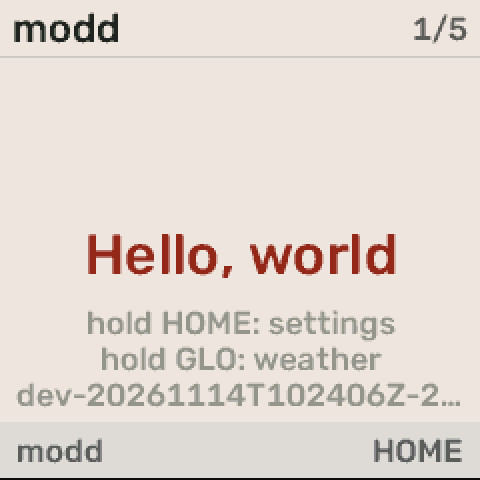
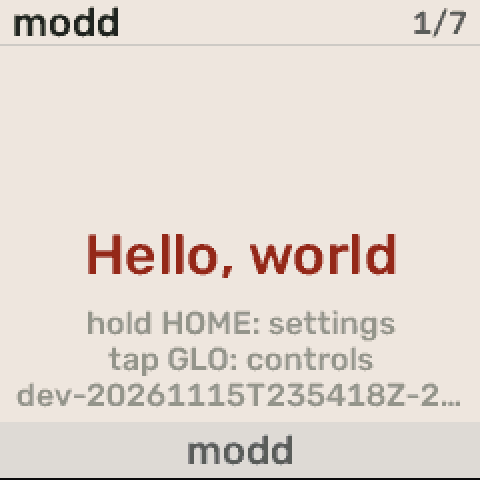
Regenerate modd UI docs and teach the generators the modd theme
- fix(docs): parse #ifndef/#else page guards and skip ENC_COUNT/ENC_NONE, so Home shows modd or Files by HOME_PAGE_FILES and the hardware table lists only real encoders
- fix(docs): build the nav diagram from the theme's own controls.c, so FX hold opens Connectivity, SAVE hold opens Demo and GLO hold opens Log
- fix(docs): read firmware from build/<defconfig>/modd.fwsc in the screenshot tool, which looked for build/modd.fwsc
- docs(ui): refresh the modd navigation diagram and capture 7 page screenshots, adding Files and Disk
- test(docs): add regression tests for guard negation, sentinel defines and the modd diagram

diff --git a/tools/codegen/gen_ui_map.py b/tools/codegen/gen_ui_map.py
@@ -61,11 +61,29 @@ def _guards_met(guards: list[str], config: set[str]) -> bool:
     """Check whether all Kconfig guards are satisfied by the active config."""
     for g in guards:
         g = g.strip()
+        negated = g.startswith('!')
+        if negated:
+            g = g[1:].strip()
         if g.startswith('defined(') and g.endswith(')'):
             g = g[len('defined('):-1]
-        if g not in config:
+        if (g in config) == negated:
             return False
     return True
+
+
+def _negate(guard: str) -> str:
+    """Flip a guard: CONFIG_X <-> !CONFIG_X."""
+    guard = guard.strip()
+    if guard.startswith('!'):
+        return guard[1:].strip()
+    if re.fullmatch(r'\w+|defined\(\w+\)', guard):
+        return '!' + guard
+    return f'!({guard})'
+
+
+def _exclusive(a: list[str], b: list[str]) -> bool:
+    """True when two guard lists can never both hold (one has X, the other !X)."""
+    return any(_negate(g) in b for g in a)
 
 
 MARKER_START = "<!-- ui-nav-diagram:start -->"
@@ -164,11 +182,17 @@ def parse_pages(path: Path) -> list[dict]:
     view_comment = ""
     for line in path.read_text().splitlines():
         stripped = line.strip()
-        # Track #ifdef / #if / #endif
-        if stripped.startswith("#ifdef ") or stripped.startswith("#if "):
-            cond = stripped.split("//")[0].strip()
+        # Track #ifdef / #ifndef / #if / #else / #endif
+        if stripped.startswith("#ifndef "):
+            cond = stripped.split("//")[0].split("/*")[0].strip()
+            guards.append(_negate(cond.removeprefix("#ifndef ")))
+        elif stripped.startswith("#ifdef ") or stripped.startswith("#if "):
+            cond = stripped.split("//")[0].split("/*")[0].strip()
             cond = cond.removeprefix("#ifdef ").removeprefix("#if ")
             guards.append(cond)
+        elif stripped.startswith("#else"):
+            if guards:
+                guards[-1] = _negate(guards[-1])
         elif stripped.startswith("#endif"):
             if guards:
                 guards.pop()
@@ -469,8 +493,8 @@ def parse_hw_controls(path: Path) -> tuple[list[tuple[str, int]], list[tuple[str
     """Return (buttons, encoders): [(name, id)] from BTN_* and ENC_* defines."""
     buttons: list[tuple[str, int]] = []
     encoders: list[tuple[str, int]] = []
-    btn_pat = re.compile(r"#define\s+(BTN_(\w+))\s+(\d+)")
-    enc_pat = re.compile(r"#define\s+(ENC_(\w+))\s+(\d+)")
+    btn_pat = re.compile(r"#define\s+(BTN_(\w+))\s+(\d+)\b")
+    enc_pat = re.compile(r"#define\s+(ENC_(\w+))\s+(\d+)\b")
 
     for line in path.read_text().splitlines():
         m = btn_pat.match(line.strip())
@@ -478,7 +502,7 @@ def parse_hw_controls(path: Path) -> tuple[list[tuple[str, int]], list[tuple[str
             buttons.append((m.group(2), int(m.group(3))))
             continue
         m = enc_pat.match(line.strip())
-        if m:
+        if m and m.group(2) not in ("COUNT", "NONE"):
             encoders.append((m.group(2), int(m.group(3))))
 
     return buttons, encoders
@@ -574,8 +598,12 @@ def generate_controls_table(page_controls: dict, page_details: dict, pages: list
         "| Page | Select | Algo | Knob 1 | Knob 2 | Knob 3 | Knob 4 | Buttons |",
         "|------|--------|------|--------|--------|--------|--------|---------|",
     ]
+    seen: set[str] = set()
     for p in pages:
         sym = p["symbol"]
+        if sym in seen:
+            continue  # registered under two views (alternative configs)
+        seen.add(sym)
         d = page_details.get(sym, {})
         title = d.get("title") or d.get("name") or sym
         c = page_controls.get(sym, {"knobs": {}, "buttons": []})
@@ -641,6 +669,7 @@ def load_nav_map(theme: str, root: Path | None = None) -> dict:
     # shell.c hardcodes GLO hold -> debug log (VIEW_GLO) outside the controls map
     if "VIEW_GLO" in view_groups and "VIEW_GLO" not in btn_for_view:
         btn_for_view["VIEW_GLO"] = "glo_hold"
+        hold_map["BTN_GLO"] = "VIEW_GLO"
 
     return {
         "theme": theme,
@@ -716,24 +745,12 @@ def generate_mermaid(theme: str) -> str:
         # Try the renamed variant (felucca -> reluca in git status, but source is felucca)
         raise SystemExit(f"Theme directory not found: {theme_dir}")
 
-    views = parse_views(ROOT / "firmware" / "src" / "ui" / "ui_view.h")
-    controls_name = theme if theme in ("felucca", "melodee", "sloop") else "felucca"
-    tap_map, hold_map = parse_controls(
-        ROOT / "firmware" / "adapters" / "modd_controls.h", controls_name
-    )
-    pages = parse_pages(theme_dir / "pages.c")
+    # One source for pages, views and button maps (theme controls.c when present)
+    nav = load_nav_map(theme)
+    pages = nav["pages"]
+    view_groups = nav["view_groups"]
+    tap_map, hold_map = nav["tap_map"], nav["hold_map"]
     page_details = parse_page_details(theme_dir)
-
-    # Resolve view: prefer comment from pages.c, fall back to .view in source
-    for p in pages:
-        if not p["view"] and p["symbol"] in page_details:
-            p["view"] = page_details[p["symbol"]].get("view", "")
-
-    # Group pages by view
-    view_groups: dict[str, list[dict]] = {}
-    for p in pages:
-        vw = p["view"] or "VIEW_HOME"
-        view_groups.setdefault(vw, []).append(p)
 
     # Friendly view labels
     view_label = {
@@ -752,8 +769,16 @@ def generate_mermaid(theme: str) -> str:
         "VIEW_DEMO": "Demo",
     }
 
-    def _node_id(sym: str) -> str:
-        return sym.replace("FPAGE_", "F_").replace("PAGE_", "P_")
+    sym_count: dict[str, int] = {}
+    for p in pages:
+        sym_count[p["symbol"]] = sym_count.get(p["symbol"], 0) + 1
+
+    def _node_id(p: dict) -> str:
+        nid = p["symbol"].replace("FPAGE_", "F_").replace("PAGE_", "P_")
+        if sym_count[p["symbol"]] > 1:
+            # same page registered under two views (alternative configs)
+            nid += "_" + (p["view"] or "VIEW_HOME").replace("VIEW_", "")
+        return nid
 
     def _display(sym: str) -> str:
         d = page_details.get(sym, {})
@@ -774,7 +799,7 @@ def generate_mermaid(theme: str) -> str:
     def _view_target(vw: str) -> str:
         group = view_groups.get(vw, [])
         if len(group) == 1:
-            return _node_id(group[0]["symbol"])
+            return _node_id(group[0])
         return vw.replace("VIEW_", "sg_")
 
     # Boot -> HOME target
@@ -795,7 +820,7 @@ def generate_mermaid(theme: str) -> str:
 
         if len(group) == 1:
             p = group[0]
-            nid = _node_id(p["symbol"])
+            nid = _node_id(p)
             label = _display(p["symbol"])
             lines_final.append(f'    {nid}["{label}{_guard_note(p["guards"])}"]')
         else:
@@ -803,7 +828,7 @@ def generate_mermaid(theme: str) -> str:
             sg_id = vw.replace("VIEW_", "sg_")
             lines_final.append(f'    subgraph {sg_id}["{sg_label}"]')
             for p in group:
-                nid = _node_id(p["symbol"])
+                nid = _node_id(p)
                 label = _display(p["symbol"])
                 lines_final.append(f'        {nid}["{label}{_guard_note(p["guards"])}"]')
             lines_final.append("    end")
@@ -814,9 +839,10 @@ def generate_mermaid(theme: str) -> str:
     for vw, group in view_groups.items():
         if len(group) < 2:
             continue
-        ids = [_node_id(p["symbol"]) for p in group]
-        for i in range(len(ids) - 1):
-            lines_final.append(f"    {ids[i]} <-..-> {ids[i+1]}")
+        for a, b in zip(group, group[1:]):
+            if _exclusive(a["guards"], b["guards"]):
+                continue  # alternatives, never built together
+            lines_final.append(f"    {_node_id(a)} <-..-> {_node_id(b)}")
 
     # Button tap navigation
     lines_final.append("")

diff --git a/tests/ui/themes/modd/gen_ui_map_test.py b/tests/ui/themes/modd/gen_ui_map_test.py
@@ -1,0 +1,90 @@
+#!/usr/bin/env python3
+# SPDX-License-Identifier: GPL-3.0-only
+# Copyright (C) 2026 Dmitry Kireev (@DimmKirr)
+"""Unit tests for gen_ui_map.py: preprocessor guards and hardware controls.
+
+The modd theme registers pages under #ifndef / #else branches and a page can
+sit in two views (Files is HOME or DEMO depending on HOME_PAGE_FILES). The
+generator has to carry the negation, or the docs describe a build that
+cannot exist.
+"""
+import sys
+from pathlib import Path
+
+ROOT = Path(__file__).resolve().parents[4]
+sys.path.insert(0, str(ROOT / 'tools' / 'codegen'))
+
+from gen_ui_map import (
+    _guards_met, control_path, generate_mermaid, load_nav_map,
+    parse_hw_controls, parse_pages,
+)
+
+PAGES_C = '''
+static void shell_register_pages(void)
+{
+    /* VIEW_HOME */
+#ifdef CONFIG_HOME_PAGE_FILES
+    nav_register(&PAGE_FILES);
+#else
+    nav_register(&PAGE_HOME);
+#endif
+
+    /* VIEW_DEMO (SAVE hold) */
+#ifdef CONFIG_UDISK
+#ifndef CONFIG_HOME_PAGE_FILES
+    nav_register(&PAGE_FILES);
+#endif
+    nav_register(&PAGE_DISK);
+#endif
+}
+'''
+
+
+def _pages(tmp_path):
+    f = tmp_path / 'pages.c'
+    f.write_text(PAGES_C)
+    return [(p['symbol'], p['view'], p['guards']) for p in parse_pages(f)]
+
+
+def test_else_and_ifndef_negate_the_guard(tmp_path):
+    assert _pages(tmp_path) == [
+        ('PAGE_FILES', 'VIEW_HOME', ['CONFIG_HOME_PAGE_FILES']),
+        ('PAGE_HOME', 'VIEW_HOME', ['!CONFIG_HOME_PAGE_FILES']),
+        ('PAGE_FILES', 'VIEW_DEMO', ['CONFIG_UDISK', '!CONFIG_HOME_PAGE_FILES']),
+        ('PAGE_DISK', 'VIEW_DEMO', ['CONFIG_UDISK']),
+    ]
+
+
+def test_guards_met_honours_negation():
+    config = {'CONFIG_UDISK'}
+    assert _guards_met(['CONFIG_UDISK', '!CONFIG_HOME_PAGE_FILES'], config)
+    assert not _guards_met(['CONFIG_HOME_PAGE_FILES'], config)
+    assert not _guards_met(['!CONFIG_UDISK'], config)
+    assert _guards_met(['!defined(CONFIG_DOCK)', 'defined(CONFIG_UDISK)'], config)
+
+
+def test_hw_controls_skip_sentinels(tmp_path):
+    f = tmp_path / 'controls.h'
+    f.write_text('#define BTN_HOME 8\n#define BTN_COUNT 14\n'
+                 '#define ENC_SELECT   0\n#define ENC_PRESET   6\n'
+                 '#define ENC_COUNT    7\n#define ENC_NONE     0xFF\n')
+    buttons, encoders = parse_hw_controls(f)
+    assert buttons == [('HOME', 8)]
+    assert encoders == [('SELECT', 0), ('PRESET', 6)]
+
+
+def test_modd_default_walk_starts_on_home_not_files():
+    nav = load_nav_map('modd')
+    steps = control_path(nav, config={'CONFIG_UDISK', 'CONFIG_SYS_MENU'})
+    assert steps[0]['view'] == 'VIEW_HOME' and steps[0]['page'] != 'Files'
+    demo = [s['page'] for s in steps if s['view'] == 'VIEW_DEMO']
+    assert len(demo) == 2, demo
+
+
+def test_modd_diagram_uses_the_theme_button_map():
+    mermaid = generate_mermaid('modd')
+    assert 'BTN_FX_H[/"FX hold"/] -.-> sg_CONN' in mermaid
+    assert 'BTN_SAVE_H[/"SAVE hold"/] -.-> sg_DEMO' in mermaid
+    # Files and modd are alternatives for HOME: distinct nodes, no cycle edge
+    assert 'P_FILES_HOME' in mermaid and 'P_FILES_DEMO' in mermaid
+    assert 'P_FILES_HOME <-..-> P_HOME' not in mermaid

diff --git a/tools/codegen/gen_ui_screenshots.py b/tools/codegen/gen_ui_screenshots.py
@@ -30,7 +30,11 @@ from fm1_controls import FM1Controls
 from gen_ui_map import control_path, discover_themes, load_defconfig, load_nav_map
 
 EMU_DIR = Path(os.environ.get('FM1_WEB_DIR', Path.home() / '.fm1-emulator' / 'web'))
-FWSC = ROOT / 'build' / 'modd.fwsc'
+
+
+def _fwsc_path(defconfig: str) -> Path:
+    """Firmware package for a defconfig: build/<defconfig>/modd.fwsc."""
+    return ROOT / 'build' / defconfig / 'modd.fwsc'
 
 THEME_DEFCONFIG = {
     'felucca': 'felucca',
@@ -76,11 +80,12 @@ def _build_firmware(theme: str) -> Path:
     if r.returncode != 0:
         print(f'  Build failed:\n{r.stderr}', file=sys.stderr)
         raise SystemExit(1)
-    if not FWSC.is_file():
-        print(f'  Build succeeded but {FWSC} not found', file=sys.stderr)
+    fwsc = _fwsc_path(defconfig)
+    if not fwsc.is_file():
+        print(f'  Build succeeded but {fwsc} not found', file=sys.stderr)
         raise SystemExit(1)
-    print(f'  Built {FWSC}')
-    return FWSC
+    print(f'  Built {fwsc}')
+    return fwsc
 
 
 def _boot_emulator(page, fwsc: Path) -> None:
@@ -184,7 +189,7 @@ def capture_theme(theme: str, build: bool = True) -> Path:
     if build:
         fwsc = _build_firmware(theme)
     else:
-        fwsc = FWSC
+        fwsc = _fwsc_path(defconfig)
         if not fwsc.is_file():
             print(f'Firmware not built ({fwsc}). Pass --build or run "task build".', file=sys.stderr)
             raise SystemExit(1)

diff --git a/docs/ui/themes/modd/UI.md b/docs/ui/themes/modd/UI.md
@@ -2,7 +2,7 @@
 
 Auto-generated from `firmware/src/ui/themes/modd/pages.c` and `firmware/adapters/modd_controls.h`.
 
-Regenerate: `task docs:ui-map -- modd`
+Regenerate: `task docs:themes:ui:diagram`
 
 - **Solid arrows** (`-->`) = button tap navigation
 - **Dashed arrows** (`-.->`) = button hold navigation
@@ -15,36 +15,39 @@ Regenerate: `task docs:ui-map -- modd`
 flowchart TD
 
     BOOT(["Boot Splash"]):::boot
-    BOOT --> P_HOME
+    BOOT --> sg_HOME
 
-    P_HOME["modd"]
+    subgraph sg_HOME["Home"]
+        P_FILES_HOME["Files<br/><small>⚙ HOME_PAGE_FILES</small>"]
+        P_HOME["modd<br/><small>⚙ !HOME_PAGE_FILES</small>"]
+    end
 
-    P_DEBUG["Log<br/><small>⚙ DEBUG_LOG</small>"]
+    P_DEBUG["Log<br/><small>⚙ DEBUG_LOG_BUF</small>"]
 
     subgraph sg_CONN["Connectivity"]
         P_WEATHER["Weather<br/><small>⚙ LWIP</small>"]
-        P_DEMO["DEMO"]
+        P_DEMO["DEMO<br/><small>⚙ PAGE_DEMO</small>"]
     end
 
-    P_SETTINGS["Settings"]
+    P_SETTINGS["Settings<br/><small>⚙ SYS_MENU</small>"]
 
     subgraph sg_DEMO["Demo"]
-        P_FILES["Files<br/><small>⚙ UDISK</small>"]
+        P_FILES_DEMO["Files<br/><small>⚙ UDISK · !HOME_PAGE_FILES</small>"]
         P_DISK["Disk<br/><small>⚙ UDISK</small>"]
     end
 
     %% Encoder: cycle pages within a view
     P_WEATHER <-..-> P_DEMO
-    P_FILES <-..-> P_DISK
+    P_FILES_DEMO <-..-> P_DISK
 
     %% Buttons: tap navigates between views
-    BTN_GLO[/"GLO"/] --> P_DEBUG
-    BTN_HOME[/"HOME"/] --> P_HOME
+    BTN_HOME[/"HOME"/] --> sg_HOME
 
     %% Buttons: hold navigates to secondary views
-    BTN_FX_H[/"FX hold"/] -.-> sg_DEMO
-    BTN_GLO_H[/"GLO hold"/] -.-> sg_CONN
+    BTN_FX_H[/"FX hold"/] -.-> sg_CONN
+    BTN_GLO_H[/"GLO hold"/] -.-> P_DEBUG
     BTN_HOME_H[/"HOME hold"/] -.-> P_SETTINGS
+    BTN_SAVE_H[/"SAVE hold"/] -.-> sg_DEMO
 
     classDef boot fill:#E8E4DF,stroke:#6E675E,color:#333
 ```
@@ -68,11 +71,11 @@ Always active, handled by the shell or keyboard overlay:
 
 | Page | Select | Algo | Knob 1 | Knob 2 | Knob 3 | Knob 4 | Buttons |
 |------|--------|------|--------|--------|--------|--------|---------|
+| Files |  |  |  |  |  |  | OCTDN |
 | modd |  |  |  |  |  |  |  |
 | Settings |  |  |  |  |  |  | OCTUP, OCTDN |
 | Weather |  |  |  |  |  |  | PLAY |
 | DEMO |  |  |  |  |  |  |  |
-| Files |  |  |  |  |  |  | OCTDN |
 | Disk |  |  |  |  |  |  |  |
 | Log |  |  |  |  |  |  |  |
 <!-- ui-controls-table:end -->
